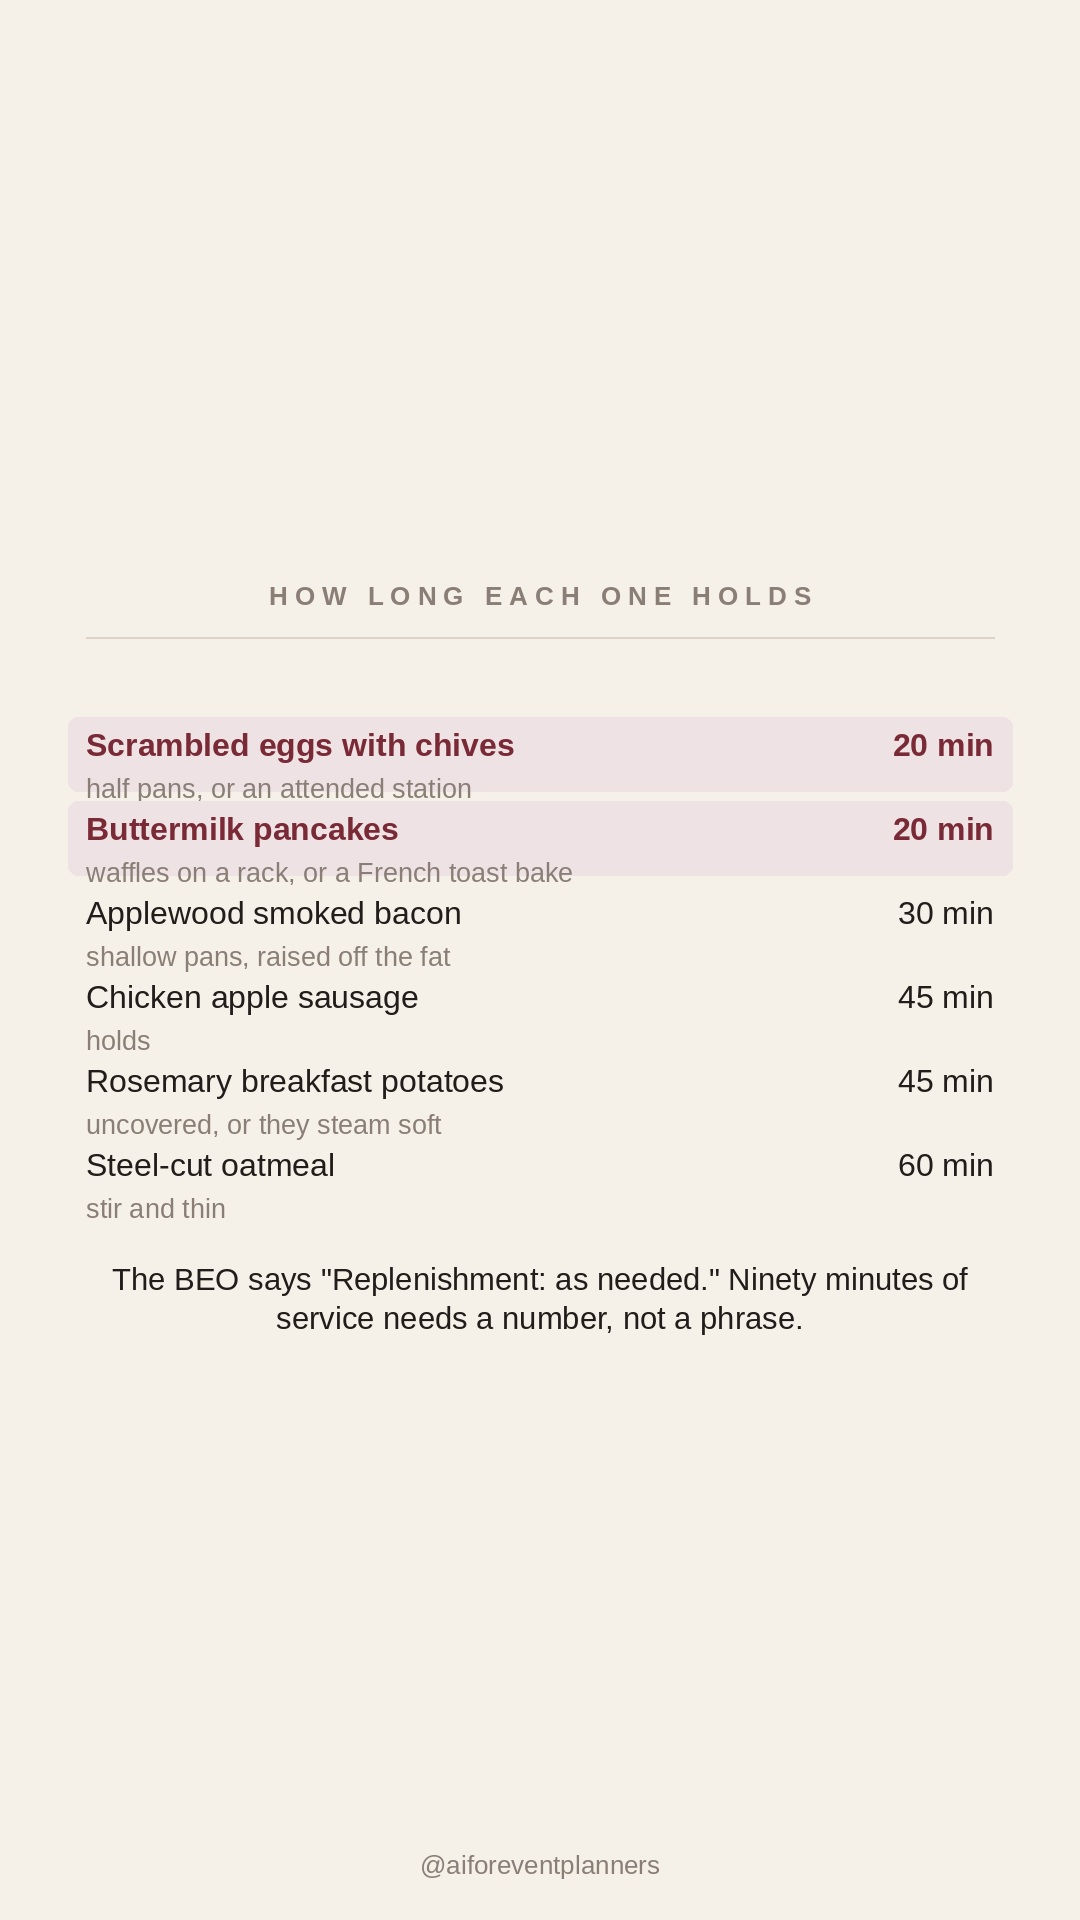
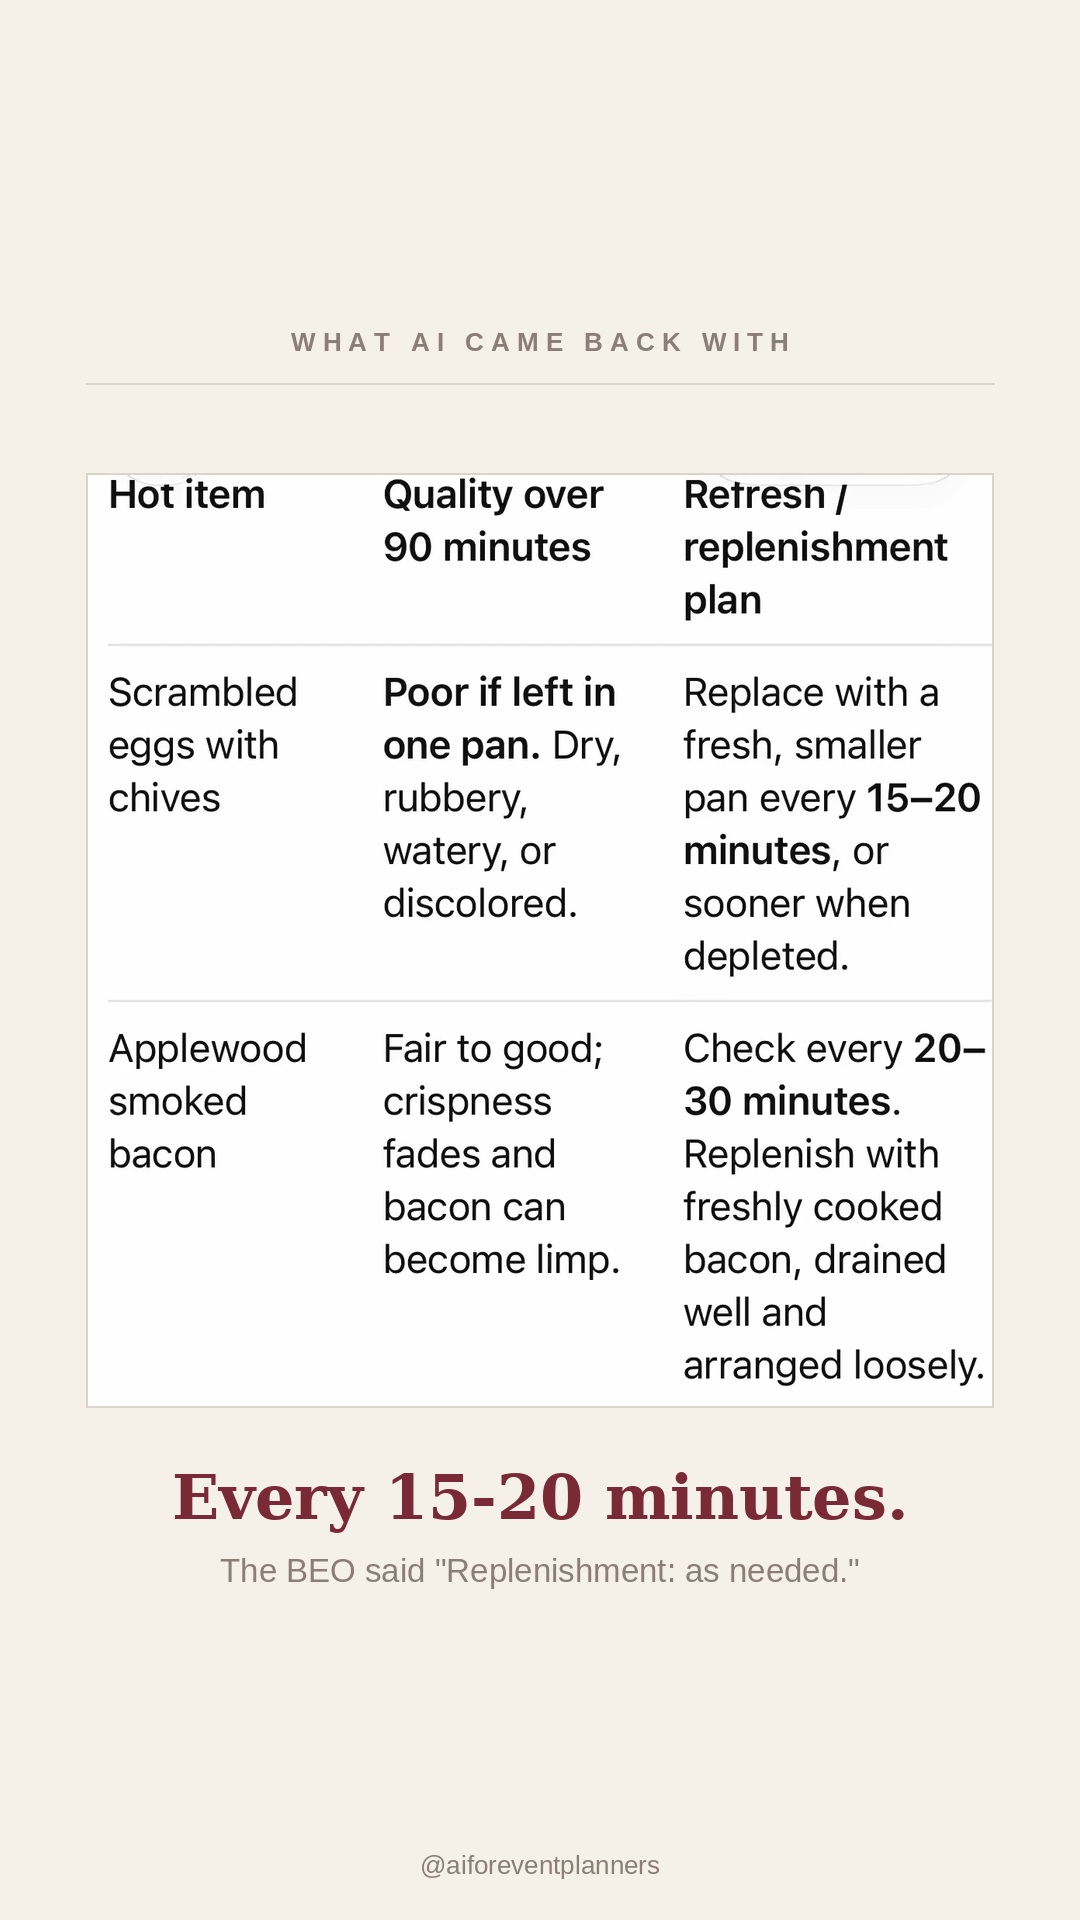
Swap the real ChatGPT answer into slide 4 of the runny eggs carousel
She ran the prompt and dropped the recording in the October 18 folder, so
slide 4 is now a crop of her own answer rather than house type, and the
"WHAT AI CAME BACK WITH" label applies honestly.

Her answer is the better slide: a real three-column table giving the eggs
"Poor if left in one pan. Dry, rubbery, watery, or discolored" and a 15-20
minute replacement interval. It also reaches the slide's callout on its own -
near the end it says to get the manager to commit to "a real replenishment
plan, not simply 'as needed'", which is what the line under the screenshot
already said.

Crop is t=10.8s, the one frame holding the header and a whole row together.
Moved down 17px from the first attempt, which caught a ghost of the app's
floating buttons. The card is now capped rather than scaled to width: the 4:5
slide is 570px shorter and the restated line was landing on the footer.

Ad check: the recording carries a FELFEL advert at ~21s, a sixth advertiser
for the guide's list. The crop is ten seconds clear of it.

Claude-Session: https://claude.ai/code/session_01HKX4LcxS3og4W8QFWqNVPj

diff --git a/carousels/2026-10-18-runny-eggs/make_slides.py b/carousels/2026-10-18-runny-eggs/make_slides.py
@@ -25,6 +25,7 @@ from PIL import Image, ImageDraw, ImageEnhance, ImageFont
 HERE = os.path.dirname(os.path.abspath(__file__))
 OUT = os.path.join(HERE, "slides")
 SRC = os.path.join(HERE, "source")
+FRAMES = os.path.join(HERE, "build", "frames")
 
 W = 1080
 SIZES = {"tiktok": 1920, "instagram": 1350}
@@ -74,16 +75,20 @@ HOOK = "Breakfast runs 7:30 to 9. The runny eggs don't."
 CLOSER = "Nobody complains about breakfast. They just remember it."
 
 
+# From her own answer, read off the recording: the eggs are the worst item on
+# the BEO and this is the interval it gives them. Slide 4 restates it under
+# the screenshot, so the two must not drift apart.
+EGGS_INTERVAL = "15\u201320"
+EGGS_VERDICT = "Poor if left in one pan."
+
+
 def assert_beo():
     """The piece only works if nothing on the BEO covers the window alone."""
     assert len(HOT) == 6, "the BEO lists six hot items"
-    worst = min(m for _, m, _ in HOT)
-    assert worst == 20, "scrambled eggs and pancakes are the 20-minute items"
     assert all(m < SERVICE_MIN for _, m, _ in HOT), \
-        "something now holds the full 90 minutes; the slide's claim moved"
-    flagged = [n for n, m, _ in HOT if m <= 20]
-    assert flagged[0].startswith("Scrambled eggs"), "eggs lead the table"
-    return worst, len(flagged)
+        "something now holds the full 90 minutes; the piece's claim moved"
+    assert HOT[0][0].startswith("Scrambled eggs"), "eggs lead the BEO"
+    return min(m for _, m, _ in HOT), len([1 for _, m, _ in HOT if m <= 20])
 
 
 def wrap(d, text, font, maxw):
@@ -248,35 +253,57 @@ def slide3(H):
 
 
 def slide4(H):
-    worst, nflag = assert_beo()
+    """A crop of her own ChatGPT answer, plus the number it turns on.
+
+    Built in house type at first, because she had not run the prompt. She ran
+    it on Oct 16 and put the recording in the October 18 folder, so this is
+    now the real thing and the Oct 13 label applies honestly.
+
+    The crop is the table header and its first two rows, from t=10.8s — the
+    one frame where the header and a whole row are on screen together. Her
+    answer's own worst case is the eggs, which is the piece, so they lead.
+
+    Cut well clear of the FELFEL advert that scrolls in near the end of the
+    recording at ~21s.
+    """
     img, d = new(H)
-    fr = F(SANS, 32)
-    frb = F(SANSB, 32)
-    fsm = F(SANS, 27)
-    row, sub = 46, 38
-    cap = F(SANS, 31)
-    note = ('The BEO says "Replenishment: as needed." Ninety minutes of '
-            "service needs a number, not a phrase.")
 
-    hh = LABEL_H + len(HOT) * (row + sub) + 30 + measure(d, note, cap, W - 2 * M)
-    y = head_label(d, "HOW LONG EACH ONE HOLDS", (H - hh) // 2)
+    card = Image.open(os.path.join(FRAMES, "answer-card.png")).convert("RGB")
+    cw = W - 2 * M
+    ch = round(card.height * cw / card.width)
 
-    for name, mins, fix in HOT:
-        hot = mins <= 20
-        if hot:
-            d.rounded_rectangle([M - 18, y - 10, W - M + 18, y + row + sub - 20],
-                                10, fill=(238, 226, 228))
-        f1 = frb if hot else fr
-        d.text((M, y), name, font=f1, fill=MAROON if hot else INK)
-        t = f"{mins} min"
-        d.text((W - M - d.textlength(t, font=f1), y), t, font=f1,
-               fill=MAROON if hot else INK)
-        y += row
-        d.text((M, y), fix, font=fsm, fill=GREY)
-        y += sub
+    # The 4:5 slide is 570px shorter than the 9:16 one and the card does not
+    # shrink with it, so at full width the restated line and the footer end up
+    # on top of each other. Cap the card to whatever is left once the label,
+    # the line, the note and the footer have taken their share, and scale the
+    # width to match so the screenshot is never stretched.
+    f_probe, sub_probe = F(SERIF, 62), F(SANS, 33)
+    reserved = (LABEL_H + 52 + int(62 * 1.24) + 16
+                + measure(d, 'The BEO said "Replenishment: as needed."', sub_probe, cw)
+                + 150)                      # footer and breathing room
+    avail = H - reserved - 60               # 60 = minimum headroom at the top
+    if ch > avail:
+        ch = avail
+        cw = round(card.width * ch / card.height)
+    card = card.resize((cw, ch), Image.LANCZOS)
+    cx = (W - cw) // 2
 
-    y += 30
-    block(d, note, cap, M, y, W - 2 * M, INK, align="center")
+    f = F(SERIF, 62)
+    sub = F(SANS, 33)
+    line = "Every 15-20 minutes."
+    assert EGGS_INTERVAL in line.replace("-", "\u2013"), "the restated interval drifted"
+    note = 'The BEO said "Replenishment: as needed."'
+
+    hh = LABEL_H + card.height + 52 + int(62 * 1.24) + 16 \
+        + measure(d, note, sub, W - 2 * M)
+    y = head_label(d, "WHAT AI CAME BACK WITH", (H - hh) // 2)
+
+    img.paste(card, (cx, y))
+    d.rectangle([cx, y, cx + cw - 1, y + card.height - 1], outline=RULE, width=2)
+    y += card.height + 52
+    d.text(((W - d.textlength(line, font=f)) / 2, y), line, font=f, fill=MAROON)
+    y += int(62 * 1.24) + 16
+    block(d, note, sub, M, y, W - 2 * M, GREY, align="center")
     footer(d, H)
     return img
 

diff --git a/carousels/2026-10-18-runny-eggs/README.md b/carousels/2026-10-18-runny-eggs/README.md
@@ -65,29 +65,53 @@ dim and orange. It is lifted before anything is laid over it — brightness
 1.30, contrast 1.10, saturation 0.92 — on her instruction, "yes brighen it
 up". Her first version read as a dark smudge.
 
-## Slide 4 is NOT a screenshot, and is not labelled as one
+## Slide 4 is her real answer — swapped in the same day
 
-The Oct 13 contingency carousel embedded a crop of her real ChatGPT answer
-under the heading "WHAT AI CAME BACK WITH". There is no such recording for
-this piece — she has not run the prompt — so the hold times are set in house
-type under **"HOW LONG EACH ONE HOLDS"**, a heading that claims no tool and
-does not present the slide as any model's output.
+It was built in house type first, under the neutral heading "HOW LONG EACH ONE
+HOLDS", because she had not run the prompt and this session will not label its
+own writing as a model's output. She then ran it and dropped the recording in
+the day folder, so the slide is now a crop of her own ChatGPT answer and the
+Oct 13 label — **"WHAT AI CAME BACK WITH"** — applies honestly.
 
-The precedent for a carousel with no answer slide is the Oct 5 hidden-fees
-one, which is house type throughout.
+**Her answer is better than the house version was.** The invented hold times
+were round numbers; hers is a real three-column table (Hot item / Quality over
+90 minutes / Refresh and replenishment plan) and gives the eggs *"Poor if left
+in one pan. Dry, rubbery, watery, or discolored"* with a **15–20 minute**
+replacement interval. That verdict is the piece.
 
-**If she runs the prompt and sends the answer, crop it in and relabel.** That
-would be the stronger slide; this is the honest version of the weaker one.
+It also reached the callout independently. Near the end of the recording it
+says the priority is to get the manager to commit to **"a real replenishment
+plan, not simply 'as needed.' That phrase doesn't tell you who is watching the
+food, how frequently it's checked, or whether fresh batches will actually be
+available."** The slide's own line under the screenshot — *The BEO said
+"Replenishment: as needed."* — was written before that was read, and her
+answer arrives at the same place.
 
-The six hot items, their order and their hold times come from the real demo
-file in Drive (`BEO — Day 1 Breakfast`, October 18 folder): 400 guests,
-7:30–9:00am, buffet from chafing dishes. `assert_beo()` fails the build if
-anything on the list grows to cover the 90-minute window, because the whole
-piece rests on nothing on that BEO surviving the hold unattended.
+| Detail | Value |
+| --- | --- |
+| Source | `ScreenRecording_10-16-2026 9-51-12 AM_1.mov`, Drive October 18 |
+| Frame | **t = 10.8s** — the only one with the header and a whole row together |
+| Crop | source `(20, 303, 1190, 1508)` of a 1206x2622 capture |
+| Shows | header + scrambled eggs + applewood bacon |
 
-The callout under the table is the real find in the demo file: it says
-**"Replenishment: as needed"**, which names no interval and so makes the
-refresh nobody's job.
+**Ad check: the recording carries a FELFEL advert** ("Book a Free Tasting —
+office meals stocked daily") that scrolls in at about **21s**, right at the
+end. A sixth advertiser to add to the guide's list, and a fresh reminder not
+to look for a known logo. The crop at 10.8s is ten seconds clear of it.
+
+The top of the crop was moved down 17px after the first render: at y=286 it
+caught a ghost of the app's floating buttons above the table. At 303 the
+header is whole and the ghosts are gone.
+
+**The card is capped, not just scaled.** The 4:5 slide is 570px shorter than
+the 9:16 one and the screenshot does not shrink with it, so at full width the
+restated line landed on top of the footer. The card now takes whatever is left
+once the label, the line, the note and the footer have had their share, and
+its width scales with it so the screenshot is never stretched.
+
+The six hot items and `assert_beo()` stay in the script even though the table
+no longer draws a slide: the piece still rests on nothing on that BEO holding
+the full 90 minutes, and the build should fail if that stops being true.
 
 ## Slides
 
@@ -96,7 +120,7 @@ refresh nobody's job.
 | 1 | Her photo + "Breakfast runs 7:30 to 9. The runny eggs don't." |
 | 2 | Why it matters — scrambled eggs don't survive 90 minutes in a chafing dish |
 | 3 | The prompt |
-| 4 | How long each one holds — the six hot items, two flagged |
+| 4 | Her real ChatGPT answer — the hold table, eggs at 15-20 minutes |
 | 5 | "Nobody complains about breakfast. They just remember it." |
 
 Palette, fonts and footer match the Oct 13 contingency and Oct 5 hidden-fees

diff --git a/CLAUDE.md b/CLAUDE.md
@@ -191,6 +191,29 @@ video lessons. On 2026-10-14 she asked "are you sure its not already in the
 folder" about footage this session had just asked her to film. It was not
 there, but the first listing used to check was the broken one above.
 
+**She does not need to paste a Drive link any more** (settled 2026-10-16, when
+she asked outright: "do i stil need to copy and paste the screen recording link
+from google drive each tim or are you able to grab it directly"). **She does
+not.** She drops the file into the day folder and says so; this session finds
+it and downloads it.
+
+Why it works: the `October` month folder carries **`role: reader, type: anyone`**
+— "Anyone with the link — Viewer" — and every day folder and every file created
+inside inherits it. Verified on Oct 16 against `October`, `October 18` and her
+20.6 MB screen recording in it, all three returning the same permission.
+
+- Find it with `mcp__Google_Drive__search_files` and `parentId = '<day folder>'`.
+- Download it with
+  `curl -L "https://drive.usercontent.google.com/download?id=<FILE_ID>&export=download&confirm=t"`.
+  Check the bytes match Drive's `fileSize` and that it is not a sign-in page.
+- **`mcp__Google_Drive__download_file_content` caps at 10 MB** and refuses
+  anything larger, which is most recordings. The curl route has no such cap —
+  20.6 MB came down whole on Oct 16.
+- **If a future folder is not shared, the curl route silently returns a Google
+  sign-in page instead.** Check `mcp__Google_Drive__get_file_permissions` for
+  `type: anyone` before concluding a file is missing or broken, and ask her to
+  share it rather than guessing.
+
 **Use `GOOGLEDRIVE_UPLOAD_FROM_URL`** (Composio, account
 `googledrive_hasty-charer`) with the cut's `raw.githubusercontent.com` URL —
 the same one Meta fetches from. Drive pulls it server-side, so no bytes pass
@@ -203,6 +226,14 @@ of My Drive instead of the day folder. A wrong `source_url`/`name` fails loudly;
 a wrong parent does not. **Check `parents` in the response against the folder id
 you asked for**, not just `size`. The stray copy was trashed and the file
 re-uploaded.
+
+**This session cannot move a file between Drive folders.**
+`mcp__Google_Drive__update_file` takes no `addParents`/`removeParents` — the
+call is rejected with "Unknown name". On 2026-10-16 she uploaded the runny eggs
+photo to `Event photos` rather than the day folder and it could not be filed
+from here. Renaming works; re-parenting does not. Ask her to move it in the
+Drive app (long-press → Move), and treat the file as usable where it is in the
+meantime.
 
 **Do not use the inline-upload route for video.** Both the native Drive
 connector's `create_file` and Composio's `GOOGLEDRIVE_UPLOAD_FILE` take the
